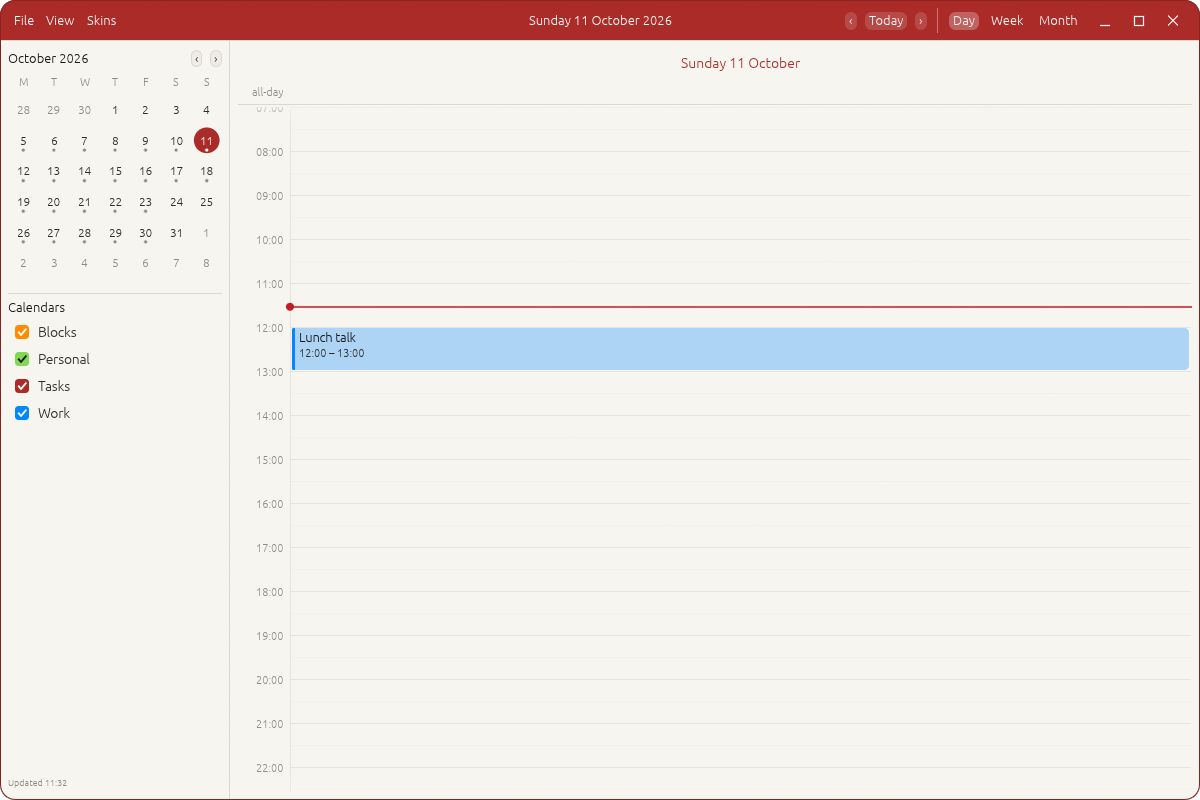
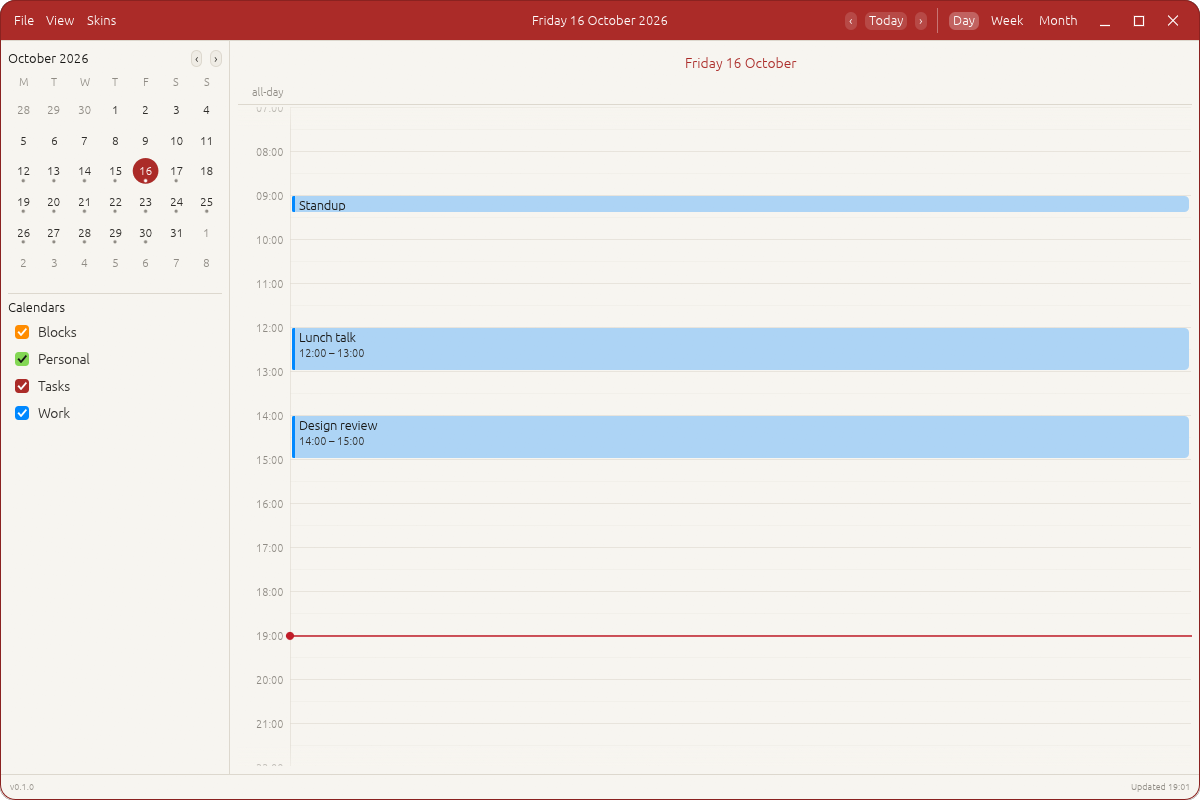
A status bar, and Patina's skin menu (its ADR-0016, ADR-0017)
A status bar along the bottom, holding both bottom corners: the version,
then the latest message, red for errors; and on the right the
connection to the server ("Syncing…", "Updated 14:30" with the server on
hover, or Set up account…), moved there from the foot of the sidebar.
It replaces the error bar with its Dismiss button. A sync that works
clears a sync error, as before.

The Skins menu gains the rest of Patina's: user skins as
"Name — Author" with their path on hover; Follow desktop, Light and Dark
for skins that follow the desktop (light_dark in the config); Copy
built-in skins to folder and Open skins folder. Skin load errors move to
the status bar, and the menu sizes to its widest entry.

diff --git a/calendar/src/app.rs b/calendar/src/app.rs
@@ -62,7 +62,10 @@ enum Do {
     Today,
     Step(i32),
     SetSkin(String),
+    SetLightDark(String),
     ReloadSkins,
+    CopySkins,
+    OpenSkinsFolder,
     SystemTitleBar(bool),
 }
 
@@ -83,7 +86,8 @@ pub struct App {
     /// Scroll the time grid to this hour on the next frame.
     scroll_to: Option<f32>,
     dialog: Option<Dialog>,
-    error: Option<String>,
+    /// The latest message for the status bar.
+    status: Option<Status>,
     synced_at: Option<DateTime<Tz>>,
     last_refresh: f64,
     /// For editing a custom colour in a calendar's menu.
@@ -99,8 +103,48 @@ fn local_zone() -> Tz {
 /// The skin used until one is picked: the app's own, built into Patina.
 const HOME_SKIN: &str = "Calendar";
 
+/// The app's name for its config folder, and so its skins folder.
+const APP: &str = "calendar";
+
 fn load_skins() -> (Vec<Skin>, Vec<String>) {
-    skin::load_all(skin::BUILT_IN, &skin::app_dir("calendar").into_iter().collect::<Vec<_>>())
+    skin::load_all(skin::BUILT_IN, &skin::app_dir(APP).into_iter().collect::<Vec<_>>())
+}
+
+/// A message for the status bar.
+struct Status {
+    level: Level,
+    text: String,
+    /// From syncing, so the next sync that works clears it.
+    sync: bool,
+}
+
+#[allow(dead_code)] // Nothing warns yet.
+enum Level {
+    Error,
+    Warn,
+    Info,
+}
+
+impl Status {
+    fn error(text: impl Into<String>) -> Self {
+        Status { level: Level::Error, text: text.into(), sync: false }
+    }
+
+    fn info(text: impl Into<String>) -> Self {
+        Status { level: Level::Info, text: text.into(), sync: false }
+    }
+}
+
+/// What Copy built-in skins did, for the status bar.
+fn export_summary(copied: &[String], skipped: &[String]) -> String {
+    let mut parts = Vec::new();
+    if !copied.is_empty() {
+        parts.push(format!("Copied {}", copied.join(", ")));
+    }
+    if !skipped.is_empty() {
+        parts.push(format!("kept your existing {}", skipped.join(", ")));
+    }
+    parts.join("; ")
 }
 
 
@@ -139,14 +183,14 @@ impl App {
             mini_shown: today,
             scroll_to: Some(7.0),
             dialog: None,
-            error: None,
+            status: None,
             synced_at: None,
             last_refresh: 0.0,
             custom_color: Color32::from_rgb(0x00, 0x7A, 0xFF),
             screenshot,
         };
         app.adopt(cached);
-        app.skin().apply(&cc.egui_ctx);
+        app.apply_skin(&cc.egui_ctx);
         if app.account.is_set() {
             app.sync.send(Command::Refresh);
         } else if app.screenshot.is_none() {
@@ -281,11 +325,37 @@ impl App {
                 self.forced_skin = None;
                 self.config.skin = Some(name);
                 self.config.save();
-                self.skin().apply(ctx);
+                self.apply_skin(ctx);
+            }
+            Do::SetLightDark(value) => {
+                self.config.light_dark = value;
+                self.config.save();
+                self.apply_skin(ctx);
             }
             Do::ReloadSkins => {
                 (self.skins, self.skin_errors) = load_skins();
-                self.skin().apply(ctx);
+                self.apply_skin(ctx);
+            }
+            Do::CopySkins => {
+                let copied = skin::app_dir(APP)
+                    .ok_or_else(|| "no config folder".to_string())
+                    .and_then(|dir| skin::export_built_ins(&dir, skin::BUILT_IN));
+                self.status = Some(match copied {
+                    Ok(export) => {
+                        // The copies share the built-ins' names, so after a reload they're the
+                        // versions in use.
+                        (self.skins, self.skin_errors) = load_skins();
+                        self.apply_skin(ctx);
+                        Status::info(export_summary(&export.copied, &export.skipped))
+                    }
+                    Err(e) => Status::error(format!("Couldn't copy skins: {e}")),
+                });
+            }
+            Do::OpenSkinsFolder => {
+                if let Some(dir) = skin::app_dir(APP) {
+                    let _ = std::fs::create_dir_all(&dir);
+                    let _ = patina::open::path(&dir);
+                }
             }
             Do::SystemTitleBar(on) => {
                 self.config.system_title_bar = on;
@@ -300,7 +370,7 @@ impl App {
         let calendar =
             self.calendars.iter().find(|c| self.visible(&c.href)).or(self.calendars.first()).map(|c| c.href.clone());
         let Some(calendar) = calendar else {
-            self.error = Some("There's no calendar to add the event to yet".into());
+            self.status = Some(Status::error("There's no calendar to add the event to yet"));
             return;
         };
         self.dialog = Some(Dialog::Event { draft: Draft::new(&calendar, start, all_day), existing: None, error: None });
@@ -496,21 +566,62 @@ impl App {
                 actions.push(Do::SystemTitleBar(system));
             }
         });
+        // Patina's skin menu (its ADR-0017): only controls; what they did goes to the status bar.
         ui.menu_button("Skins", |ui| {
-            let current = self.skin().name.clone();
+            // Size the menu to its widest entry instead of wrapping entries to its first width.
+            ui.style_mut().wrap_mode = Some(egui::TextWrapMode::Extend);
+            let current = self.skin();
             for skin in &self.skins {
-                if ui.radio(skin.name == current, &skin.name).clicked() {
+                let label = match &skin.author {
+                    Some(author) if skin.path.is_some() => format!("{} — {author}", skin.name),
+                    _ => skin.name.clone(),
+                };
+                let resp = ui.radio(skin.name == current.name, label);
+                let resp = match &skin.path {
+                    Some(path) => resp.on_hover_text(path.display().to_string()),
+                    None => resp,
+                };
+                if resp.clicked() {
                     actions.push(Do::SetSkin(skin.name.clone()));
                 }
             }
             ui.separator();
+            ui.add_enabled_ui(current.follows_desktop(), |ui| {
+                for (value, label) in [("system", "Follow desktop"), ("light", "Light"), ("dark", "Dark")] {
+                    // An unset or unknown setting follows the desktop.
+                    let on = match value {
+                        "system" => !matches!(self.config.light_dark.as_str(), "light" | "dark"),
+                        _ => self.config.light_dark == value,
+                    };
+                    if ui.radio(on, label).clicked() {
+                        actions.push(Do::SetLightDark(value.into()));
+                    }
+                }
+            });
+            ui.separator();
             if ui.button("Reload skins").clicked() {
                 actions.push(Do::ReloadSkins);
             }
-            for e in &self.skin_errors {
-                ui.colored_label(ui.visuals().error_fg_color, e);
+            if ui
+                .button("Copy built-in skins to folder")
+                .on_hover_text("Puts editable copies in the skins folder; never overwrites existing files")
+                .clicked()
+            {
+                actions.push(Do::CopySkins);
+            }
+            let folder = skin::app_dir(APP).map(|d| d.display().to_string()).unwrap_or_default();
+            if ui.button("Open skins folder").on_hover_text(folder).clicked() {
+                actions.push(Do::OpenSkinsFolder);
             }
         });
+    }
+
+    fn apply_skin(&self, ctx: &egui::Context) {
+        let skin = self.skin();
+        skin.apply(ctx);
+        if skin.follows_desktop() {
+            ctx.set_theme(self.config.theme());
+        }
     }
 
     fn sidebar(&mut self, ui: &mut egui::Ui) {
@@ -589,14 +700,36 @@ impl App {
         if let Some((href, color)) = recolor {
             self.set_color(&href, color);
         }
+    }
 
-        // Status at the bottom.
-        ui.with_layout(egui::Layout::bottom_up(egui::Align::Min), |ui| {
-            ui.add_space(6.0);
-            ui.horizontal(|ui| {
+    /// Patina's status bar (its ADR-0016): the version, then the latest message coloured by its
+    /// level; on the right, the connection to the server.
+    fn status_bar(&mut self, ui: &mut egui::Ui) {
+        ui.horizontal(|ui| {
+            // Just the version: the app's name is already in the title bar and the window list,
+            // so repeating it here adds nothing.
+            ui.label(RichText::new(format!("v{}", env!("CARGO_PKG_VERSION"))).weak().small());
+            // Skins that failed to load stay until they load, ahead of any newer message.
+            let skin_errors = (!self.skin_errors.is_empty()).then(|| {
+                let n = self.skin_errors.len();
+                Status::error(format!("Couldn't load {n} skin{}", if n == 1 { "" } else { "s" }))
+            });
+            if let Some(status) = skin_errors.as_ref().or(self.status.as_ref()) {
+                ui.separator();
+                let color = match status.level {
+                    Level::Error => ui.visuals().error_fg_color,
+                    Level::Warn => ui.visuals().warn_fg_color,
+                    Level::Info => ui.visuals().weak_text_color(),
+                };
+                let resp = ui.label(RichText::new(&status.text).color(color).small());
+                if skin_errors.is_some() {
+                    resp.on_hover_text(self.skin_errors.join("\n"));
+                }
+            }
+            ui.with_layout(egui::Layout::right_to_left(egui::Align::Center), |ui| {
                 if self.sync.busy {
-                    ui.spinner();
                     ui.label(RichText::new("Syncing…").weak().small());
+                    ui.spinner();
                 } else if !self.account.is_set() {
                     if ui.small_button("Set up account…").clicked() {
                         self.act(ui.ctx(), Do::Account);
@@ -924,9 +1057,12 @@ impl eframe::App for App {
                 Update::Synced(snapshot) => {
                     self.adopt(snapshot);
                     self.synced_at = Some(self.now());
-                    self.error = None;
+                    // A sync that works clears what the last one said went wrong.
+                    if self.status.as_ref().is_some_and(|s| s.sync) {
+                        self.status = None;
+                    }
                 }
-                Update::Error(e) => self.error = Some(e),
+                Update::Error(e) => self.status = Some(Status { sync: true, ..Status::error(e) }),
                 Update::Busy(_) => {}
             }
         }
@@ -954,31 +1090,23 @@ impl eframe::App for App {
             .frame(frame::header_frame(ui.style(), &style, radius))
             .show(ui, |ui| self.header(ui, &style));
 
-        if let Some(error) = self.error.clone() {
-            egui::Panel::bottom("error").show(ui, |ui| {
-                ui.horizontal(|ui| {
-                    ui.colored_label(ui.visuals().error_fg_color, error);
-                    if ui.small_button("Dismiss").clicked() {
-                        self.error = None;
-                    }
-                });
-            });
-        }
-
-        egui::Panel::left("sidebar")
+        // It spans the window, so it comes before the sidebar, and holds both bottom corners.
+        egui::Panel::bottom("status")
             .frame(
                 egui::Frame::side_top_panel(ui.style())
-                    .corner_radius(egui::CornerRadius { sw: radius, ..Default::default() }),
+                    .inner_margin(egui::Margin::symmetric(10, 4))
+                    .corner_radius(egui::CornerRadius { sw: radius, se: radius, ..Default::default() }),
             )
+            .show(ui, |ui| self.status_bar(ui));
+
+        egui::Panel::left("sidebar")
+            .frame(egui::Frame::side_top_panel(ui.style()))
             .default_size(230.0)
             .resizable(true)
             .show(ui, |ui| self.sidebar(ui));
 
         egui::CentralPanel::default()
-            .frame(
-                egui::Frame::central_panel(ui.style())
-                    .corner_radius(egui::CornerRadius { se: radius, ..Default::default() }),
-            )
+            .frame(egui::Frame::central_panel(ui.style()))
             .show(ui, |ui| {
                 let (from, to) = self.range();
                 let occurrences = self.occurrences(from, to);

diff --git a/calendar/src/config.rs b/calendar/src/config.rs
@@ -16,12 +16,14 @@ pub struct Config {
     /// Calendars switched off in the sidebar, by href.
     pub hidden: Vec<String>,
     pub skin: Option<String>,
+    /// "light" or "dark" while the skin follows the desktop; anything else follows it.
+    pub light_dark: String,
     pub system_title_bar: bool,
 }
 
 impl Default for Config {
     fn default() -> Self {
-        Self { view: View::Week, hidden: Vec::new(), skin: None, system_title_bar: false }
+        Self { view: View::Week, hidden: Vec::new(), skin: None, light_dark: "system".into(), system_title_bar: false }
     }
 }
 
@@ -37,6 +39,14 @@ fn read<T: for<'de> Deserialize<'de> + Default>(file: &str) -> T {
 }
 
 impl Config {
+    pub fn theme(&self) -> egui::ThemePreference {
+        match self.light_dark.as_str() {
+            "light" => egui::ThemePreference::Light,
+            "dark" => egui::ThemePreference::Dark,
+            _ => egui::ThemePreference::System,
+        }
+    }
+
     pub fn load() -> Self {
         read("config.toml")
     }
